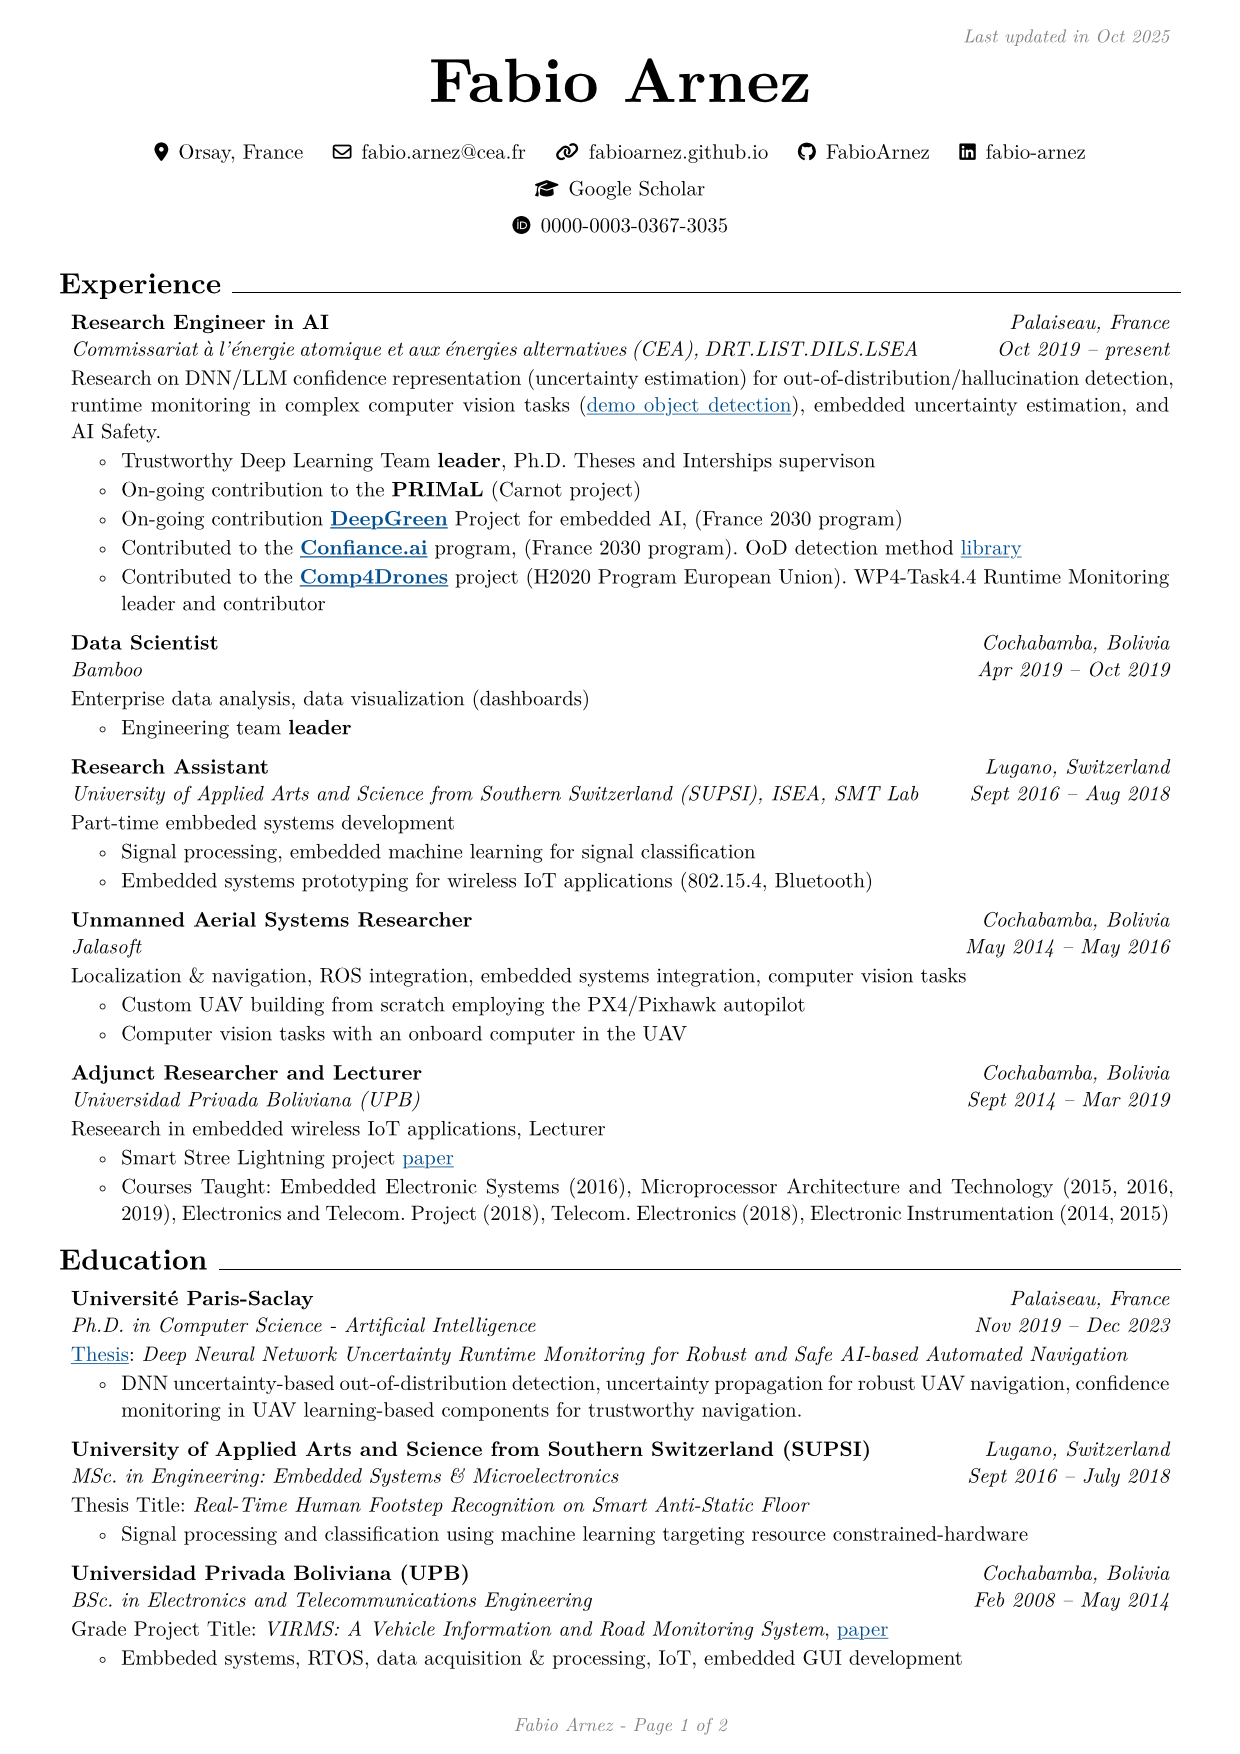
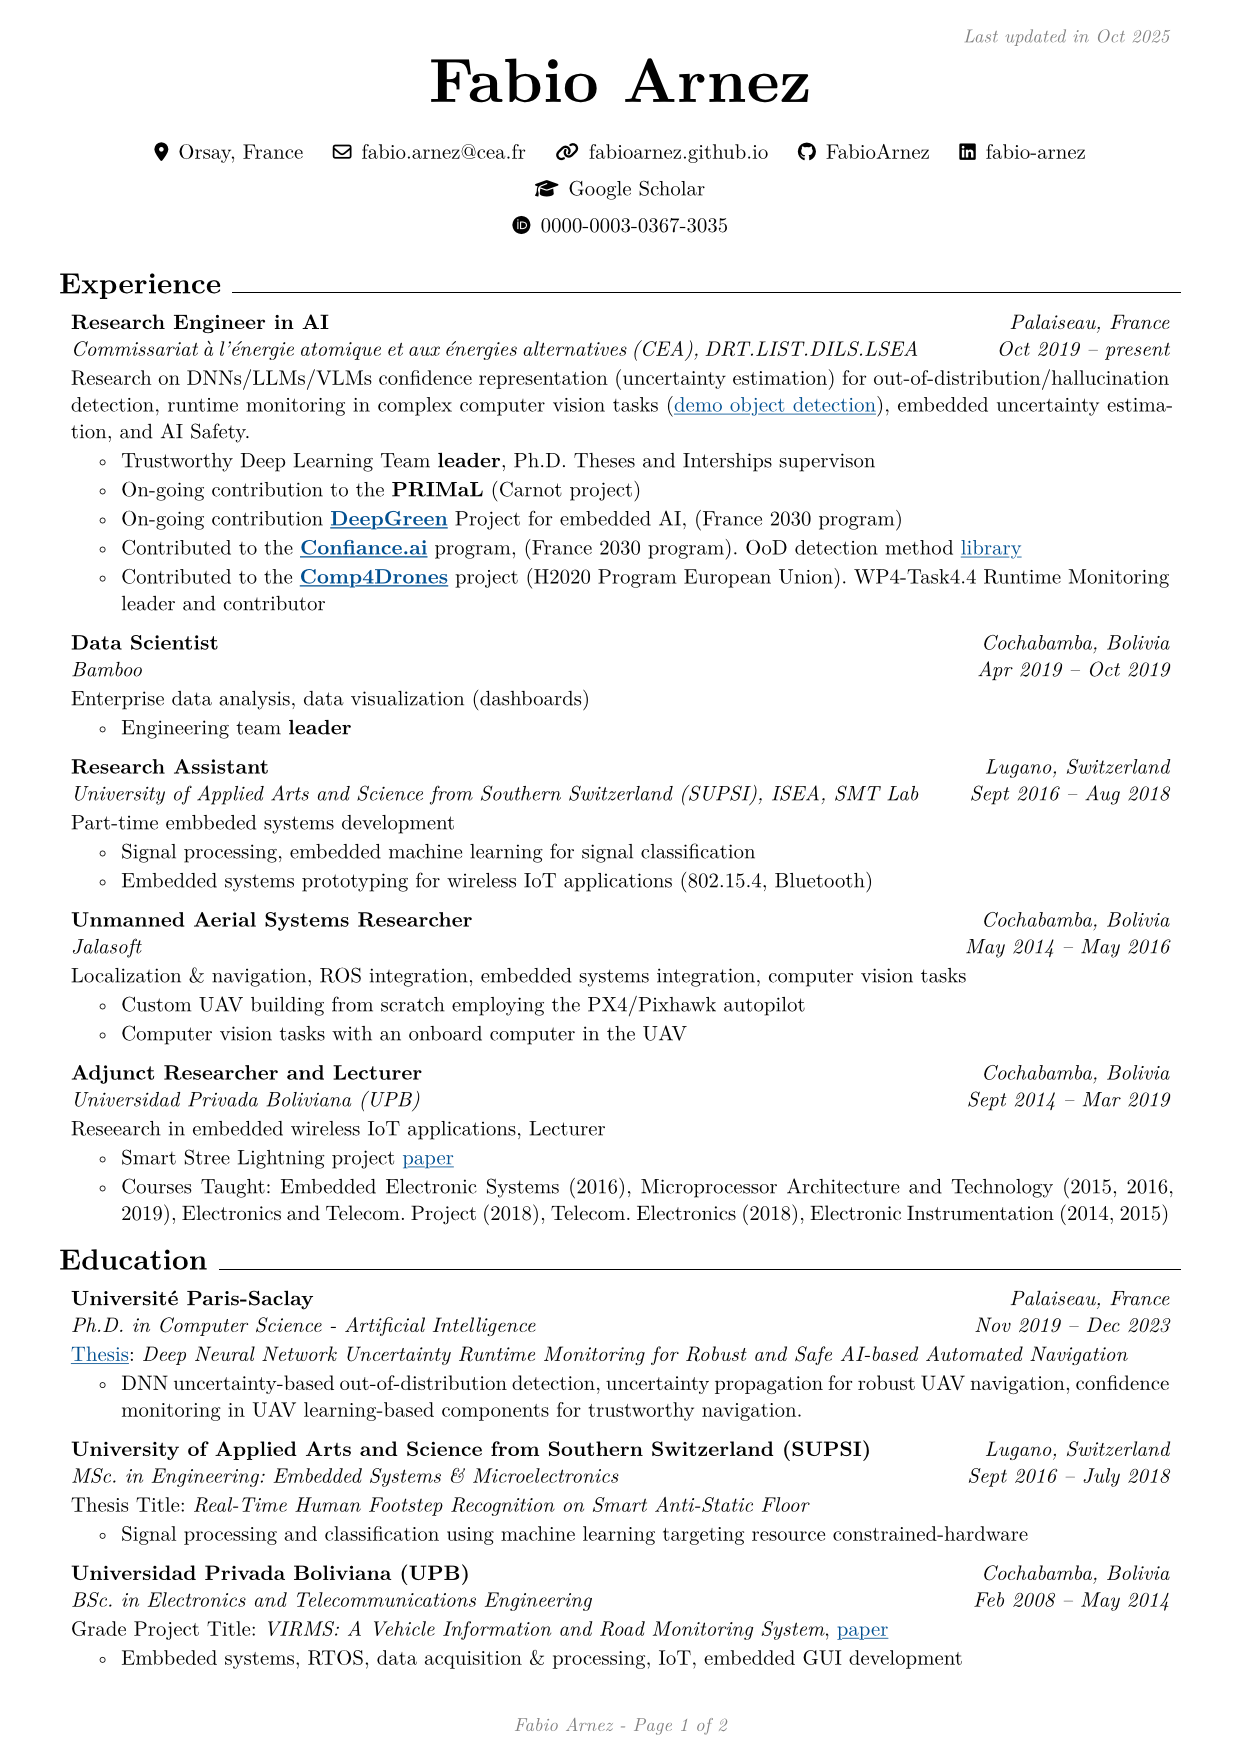
update cv 2025-11-14

Changed region(s): [[0.0613, 0.2155, 0.95, 0.2463]]

diff --git a/rendercv_output/Fabio_Arnez_CV.html b/rendercv_output/Fabio_Arnez_CV.html
@@ -118,7 +118,7 @@
         <ul>
         <li>Hajji, E., Bouguerra, A., <strong>Arnez, F.</strong> (2025, November). <em>The Map of Misbelief: Tracing Intrinsic and Extrinsic Hallucinations Through Attention Patterns</em>. In AAAI Fall Symposium Series 2025 - ATRACC.</li>
         <li>Bouguerra, A., Montoya, D., Gomez-Villa, A., <strong>Arnez, F.</strong>, Mraidha, C. (2025, August). <em>Can Less Precise Be More Reliable? A Systematic Evaluation of Quantization’s Impact on CLIP Beyond Accuracy</em>. (Under review) <a href="https://arxiv.org/abs/2509.21173">link</a></li>
-        <li>Montoya, D., Bouguerra, A., Gomez-Villa, A., &amp; <strong>Arnez, F</strong>. (2025). <em>FindMeIfYouCan: Bringing Open Set Metrics to Near, Far  and Farther Out-of-Distribution Object Detection</em>. arXiv preprint arXiv:2506.14008. (Under review) <a href="https://arxiv.org/abs/2506.14008">link</a></li>
+        <li>Montoya, D., Bouguerra, A., Gomez-Villa, A., &amp; <strong>Arnez, F</strong>. (2025, June). <em>FindMeIfYouCan: Bringing Open Set Metrics to Near, Far  and Farther Out-of-Distribution Object Detection</em>. arXiv preprint arXiv:2506.14008. (Under review) <a href="https://arxiv.org/abs/2506.14008">link</a></li>
         <li>Rajendran, P. T., <strong>Arnez, F.</strong>, Espinoza, H., Delaborde, A., Mraidha, C. <em>Oracle-Guided Soft Shielding for Safe Move Prediction in Chess.</em>, 2025. (Accepted at 24th ICMLA - to be presented soon)</li>
         <li><strong>Arnez, F.</strong>, Vasquez, D. A. M., Radermacher, A., &amp; Terrier, F. (2024, July). <em>Latent Representation Entropy Density for Distribution Shift Detection</em>. In Conference on Uncertainty in Artificial Intelligence (UAI). <a href="https://proceedings.mlr.press/v244/arnez24a.html">link</a></li>
         <li><strong>Arnez, F.</strong> (2023). <em>Deep Neural Network Uncertainty Runtime Monitoring for Robust and Safe AI-based Automated Navigation</em> (Doctoral dissertation, Université Paris-Saclay). <a href="https://theses.hal.science/tel-04672736/">link</a></li>

diff --git a/rendercv_output/Fabio_Arnez_CV.md b/rendercv_output/Fabio_Arnez_CV.md
@@ -79,7 +79,7 @@
 
 - Hajji, E., Bouguerra, A., **Arnez, F.** (2025, November). *The Map of Misbelief: Tracing Intrinsic and Extrinsic Hallucinations Through Attention Patterns*. In AAAI Fall Symposium Series 2025 - ATRACC.
 - Bouguerra, A., Montoya, D., Gomez-Villa, A., **Arnez, F.**, Mraidha, C. (2025, August). *Can Less Precise Be More Reliable? A Systematic Evaluation of Quantization’s Impact on CLIP Beyond Accuracy*. (Under review) [link](https://arxiv.org/abs/2509.21173)
-- Montoya, D., Bouguerra, A., Gomez-Villa, A., & **Arnez, F**. (2025). *FindMeIfYouCan: Bringing Open Set Metrics to Near, Far  and Farther Out-of-Distribution Object Detection*. arXiv preprint arXiv:2506.14008. (Under review) [link](https://arxiv.org/abs/2506.14008)
+- Montoya, D., Bouguerra, A., Gomez-Villa, A., & **Arnez, F**. (2025, June). *FindMeIfYouCan: Bringing Open Set Metrics to Near, Far  and Farther Out-of-Distribution Object Detection*. arXiv preprint arXiv:2506.14008. (Under review) [link](https://arxiv.org/abs/2506.14008)
 - Rajendran, P. T., **Arnez, F.**, Espinoza, H., Delaborde, A., Mraidha, C. *Oracle-Guided Soft Shielding for Safe Move Prediction in Chess.*, 2025. (Accepted at 24th ICMLA - to be presented soon)
 - **Arnez, F.**, Vasquez, D. A. M., Radermacher, A., & Terrier, F. (2024, July). *Latent Representation Entropy Density for Distribution Shift Detection*. In Conference on Uncertainty in Artificial Intelligence (UAI). [link](https://proceedings.mlr.press/v244/arnez24a.html)
 - **Arnez, F.** (2023). *Deep Neural Network Uncertainty Runtime Monitoring for Robust and Safe AI-based Automated Navigation* (Doctoral dissertation, Université Paris-Saclay). [link](https://theses.hal.science/tel-04672736/)
